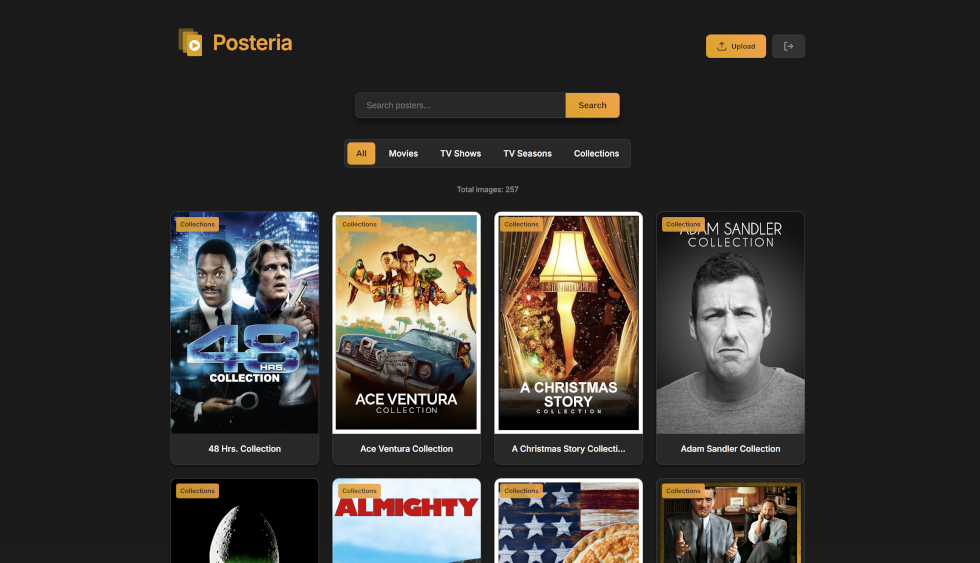
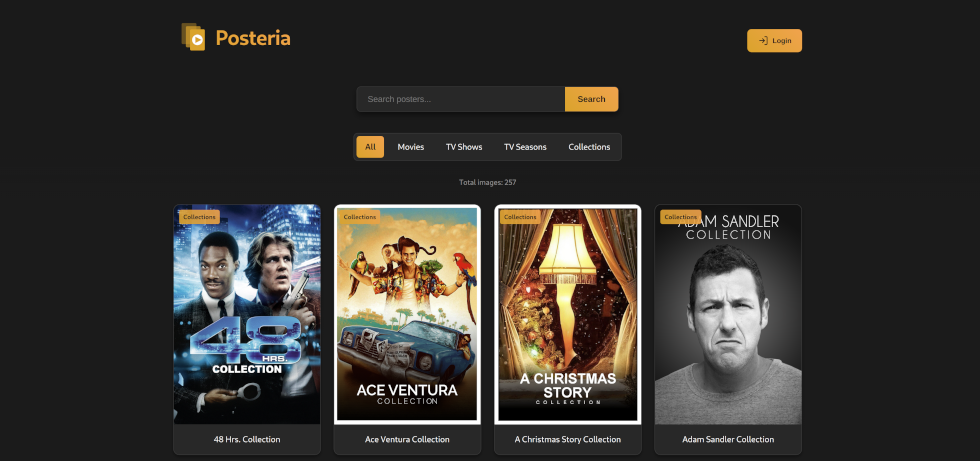
updated to remove demo url from meta tags, changed font, and updated screenshot

diff --git a/index.php b/index.php
@@ -635,19 +635,16 @@
     <meta charset="UTF-8">
     <meta name="viewport" content="width=device-width, initial-scale=1.0">
     <title><?php echo htmlspecialchars($site_title); ?></title>
-    <meta property="og:title" content="Plex Posters" />
+    <meta property="og:title" content="Posteria" />
     <meta property="og:type" content="website" />
-    <meta property="og:description" content="Plex Posters" />
-    <meta property="og:url" content="https://tvtime.dev/posters" />
-    <meta property="og:image" content="https://tvtime.dev/posters/assets/web-app-manifest-512x512.png" />
-    <link rel="preconnect" href="https://fonts.googleapis.com">
-    <link rel="preconnect" href="https://fonts.gstatic.com" crossorigin>
-    <link href="https://fonts.googleapis.com/css2?family=Inter:wght@300;400;500;600&display=swap" rel="stylesheet">
+    <meta property="og:description" content="Posteria" />
+    <meta property="og:url" content="<?php echo htmlspecialchars($config['siteUrl']); ?>" />
+    <meta property="og:image" content="<?php echo htmlspecialchars($config['siteUrl']); ?>/assets/web-app-manifest-512x512.png" />
     <link rel="icon" type="image/png" href="/assets/favicon-96x96.png" sizes="96x96" />
 	<link rel="icon" type="image/svg+xml" href="./assets/favicon.svg" />
 	<link rel="shortcut icon" href="./assets/favicon.ico" />
 	<link rel="apple-touch-icon" sizes="180x180" href="./assets/apple-touch-icon.png" />
-	<meta name="apple-mobile-web-app-title" content="Plex Posters" />
+	<meta name="apple-mobile-web-app-title" content="Posteria" />
 	<link rel="manifest" href="./assets/site.webmanifest" />
     <style>
 		/* Theme Variables */
